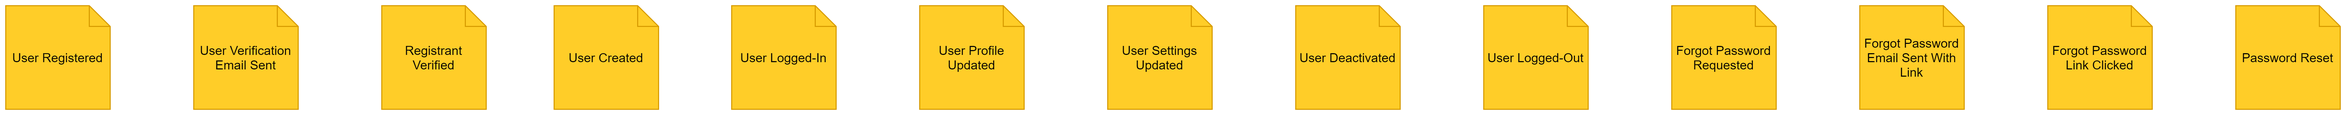
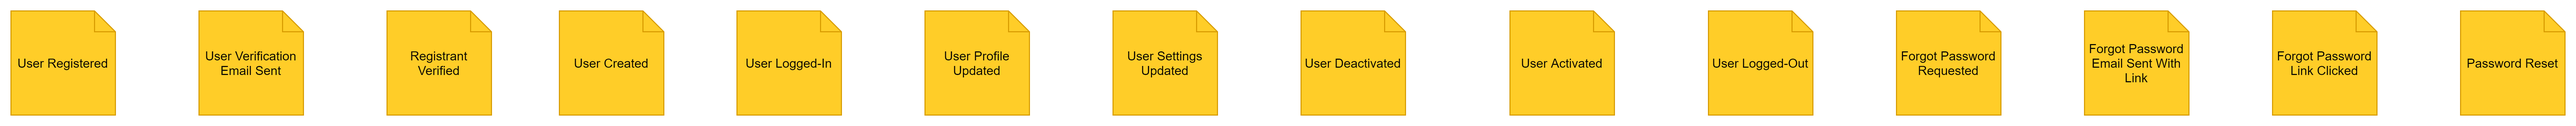
Updated features and Event-Storming Diagrams

diff --git a/server/src/Specifications/Features/Functional/IdentityAccess/Oeuvre.Specs.IdentityAccess/Features/ActivateUser.feature.cs b/server/src/Specifications/Features/Functional/IdentityAccess/Oeuvre.Specs.IdentityAccess/Features/ActivateUser.feature.cs
@@ -19,7 +19,7 @@ namespace Oeuvre.Specs.IdentityAccess.Features
     
     [System.CodeDom.Compiler.GeneratedCodeAttribute("TechTalk.SpecFlow", "3.3.0.0")]
     [System.Runtime.CompilerServices.CompilerGeneratedAttribute()]
-    public partial class DeActivateAUserFeature : object, Xunit.IClassFixture<DeActivateAUserFeature.FixtureData>, System.IDisposable
+    public partial class AdminCanActivateADeActivatedUserFeature : object, Xunit.IClassFixture<AdminCanActivateADeActivatedUserFeature.FixtureData>, System.IDisposable
     {
         
         private static TechTalk.SpecFlow.ITestRunner testRunner;
@@ -28,10 +28,10 @@ namespace Oeuvre.Specs.IdentityAccess.Features
         
         private Xunit.Abstractions.ITestOutputHelper _testOutputHelper;
         
-#line 1 "DeActivateUser.feature"
+#line 1 "ActivateUser.feature"
 #line hidden
         
-        public DeActivateAUserFeature(DeActivateAUserFeature.FixtureData fixtureData, Oeuvre_Specs_IdentityAccess_XUnitAssemblyFixture assemblyFixture, Xunit.Abstractions.ITestOutputHelper testOutputHelper)
+        public AdminCanActivateADeActivatedUserFeature(AdminCanActivateADeActivatedUserFeature.FixtureData fixtureData, Oeuvre_Specs_IdentityAccess_XUnitAssemblyFixture assemblyFixture, Xunit.Abstractions.ITestOutputHelper testOutputHelper)
         {
             this._testOutputHelper = testOutputHelper;
             this.TestInitialize();
@@ -40,7 +40,7 @@ namespace Oeuvre.Specs.IdentityAccess.Features
         public static void FeatureSetup()
         {
             testRunner = TechTalk.SpecFlow.TestRunnerManager.GetTestRunner();
-            TechTalk.SpecFlow.FeatureInfo featureInfo = new TechTalk.SpecFlow.FeatureInfo(new System.Globalization.CultureInfo("en-US"), "DeActivate A User", null, ProgrammingLanguage.CSharp, ((string[])(null)));
+            TechTalk.SpecFlow.FeatureInfo featureInfo = new TechTalk.SpecFlow.FeatureInfo(new System.Globalization.CultureInfo("en-US"), "Admin can Activate A DeActivated User", null, ProgrammingLanguage.CSharp, ((string[])(null)));
             testRunner.OnFeatureStart(featureInfo);
         }
         
@@ -80,14 +80,14 @@ namespace Oeuvre.Specs.IdentityAccess.Features
             this.TestTearDown();
         }
         
-        [Xunit.SkippableFactAttribute(DisplayName="Admin can DeActivate a User")]
-        [Xunit.TraitAttribute("FeatureTitle", "DeActivate A User")]
-        [Xunit.TraitAttribute("Description", "Admin can DeActivate a User")]
-        public virtual void AdminCanDeActivateAUser()
+        [Xunit.SkippableFactAttribute(DisplayName="Admin can Activate a User who is DeActivated")]
+        [Xunit.TraitAttribute("FeatureTitle", "Admin can Activate A DeActivated User")]
+        [Xunit.TraitAttribute("Description", "Admin can Activate a User who is DeActivated")]
+        public virtual void AdminCanActivateAUserWhoIsDeActivated()
         {
             string[] tagsOfScenario = ((string[])(null));
             System.Collections.Specialized.OrderedDictionary argumentsOfScenario = new System.Collections.Specialized.OrderedDictionary();
-            TechTalk.SpecFlow.ScenarioInfo scenarioInfo = new TechTalk.SpecFlow.ScenarioInfo("Admin can DeActivate a User", null, tagsOfScenario, argumentsOfScenario);
+            TechTalk.SpecFlow.ScenarioInfo scenarioInfo = new TechTalk.SpecFlow.ScenarioInfo("Admin can Activate a User who is DeActivated", null, tagsOfScenario, argumentsOfScenario);
 #line 3
 this.ScenarioInitialize(scenarioInfo);
 #line hidden
@@ -112,54 +112,13 @@ this.ScenarioInitialize(scenarioInfo);
  testRunner.Given("I am the Admin of Oeuvre Portal", ((string)(null)), ((TechTalk.SpecFlow.Table)(null)), "Given ");
 #line hidden
 #line 5
- testRunner.When("I DeActivate a User", ((string)(null)), ((TechTalk.SpecFlow.Table)(null)), "When ");
+ testRunner.And("a User is DeActivated", ((string)(null)), ((TechTalk.SpecFlow.Table)(null)), "And ");
 #line hidden
 #line 6
- testRunner.Then("that user should not be allowed to login", ((string)(null)), ((TechTalk.SpecFlow.Table)(null)), "Then ");
+ testRunner.When("I Activate that User", ((string)(null)), ((TechTalk.SpecFlow.Table)(null)), "When ");
 #line hidden
-            }
-            this.ScenarioCleanup();
-        }
-        
-        [Xunit.SkippableFactAttribute(DisplayName="Admin can DeActivate a User while the user is Logged-In")]
-        [Xunit.TraitAttribute("FeatureTitle", "DeActivate A User")]
-        [Xunit.TraitAttribute("Description", "Admin can DeActivate a User while the user is Logged-In")]
-        public virtual void AdminCanDeActivateAUserWhileTheUserIsLogged_In()
-        {
-            string[] tagsOfScenario = ((string[])(null));
-            System.Collections.Specialized.OrderedDictionary argumentsOfScenario = new System.Collections.Specialized.OrderedDictionary();
-            TechTalk.SpecFlow.ScenarioInfo scenarioInfo = new TechTalk.SpecFlow.ScenarioInfo("Admin can DeActivate a User while the user is Logged-In", null, tagsOfScenario, argumentsOfScenario);
-#line 8
-this.ScenarioInitialize(scenarioInfo);
-#line hidden
-            bool isScenarioIgnored = default(bool);
-            bool isFeatureIgnored = default(bool);
-            if ((tagsOfScenario != null))
-            {
-                isScenarioIgnored = tagsOfScenario.Where(__entry => __entry != null).Where(__entry => String.Equals(__entry, "ignore", StringComparison.CurrentCultureIgnoreCase)).Any();
-            }
-            if ((this._featureTags != null))
-            {
-                isFeatureIgnored = this._featureTags.Where(__entry => __entry != null).Where(__entry => String.Equals(__entry, "ignore", StringComparison.CurrentCultureIgnoreCase)).Any();
-            }
-            if ((isScenarioIgnored || isFeatureIgnored))
-            {
-                testRunner.SkipScenario();
-            }
-            else
-            {
-                this.ScenarioStart();
-#line 9
- testRunner.Given("I an Admin of Oeuvre Portal", ((string)(null)), ((TechTalk.SpecFlow.Table)(null)), "Given ");
-#line hidden
-#line 10
- testRunner.When("I DeActivate a User who is already Logged-In", ((string)(null)), ((TechTalk.SpecFlow.Table)(null)), "When ");
-#line hidden
-#line 11
- testRunner.Then("the user should be logged-out", ((string)(null)), ((TechTalk.SpecFlow.Table)(null)), "Then ");
-#line hidden
-#line 12
- testRunner.And("that user should not be allowed to login again", ((string)(null)), ((TechTalk.SpecFlow.Table)(null)), "And ");
+#line 7
+ testRunner.Then("that user should be allowed to login", ((string)(null)), ((TechTalk.SpecFlow.Table)(null)), "Then ");
 #line hidden
             }
             this.ScenarioCleanup();
@@ -172,12 +131,12 @@ this.ScenarioInitialize(scenarioInfo);
             
             public FixtureData()
             {
-                DeActivateAUserFeature.FeatureSetup();
+                AdminCanActivateADeActivatedUserFeature.FeatureSetup();
             }
             
             void System.IDisposable.Dispose()
             {
-                DeActivateAUserFeature.FeatureTearDown();
+                AdminCanActivateADeActivatedUserFeature.FeatureTearDown();
             }
         }
     }
